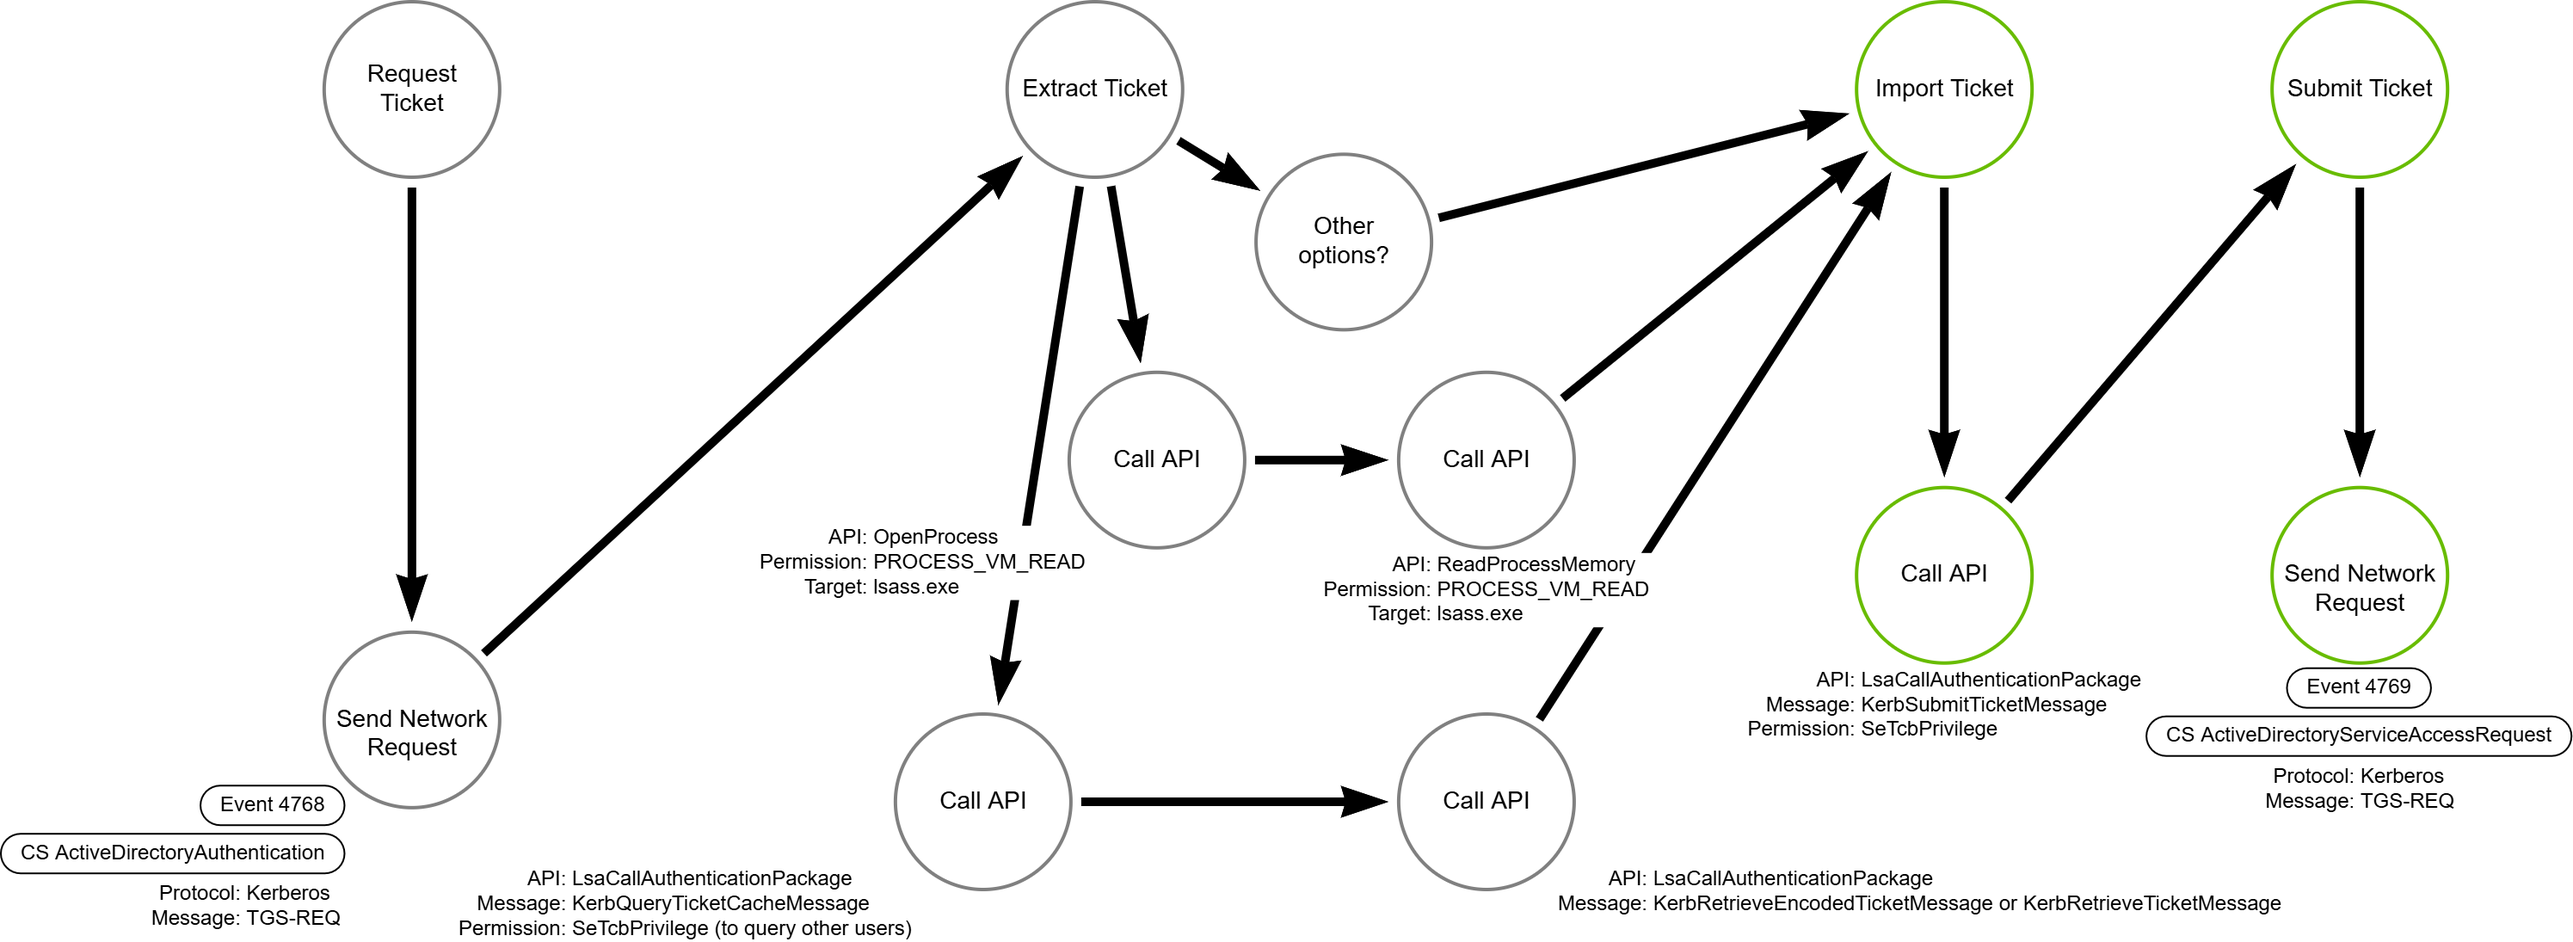
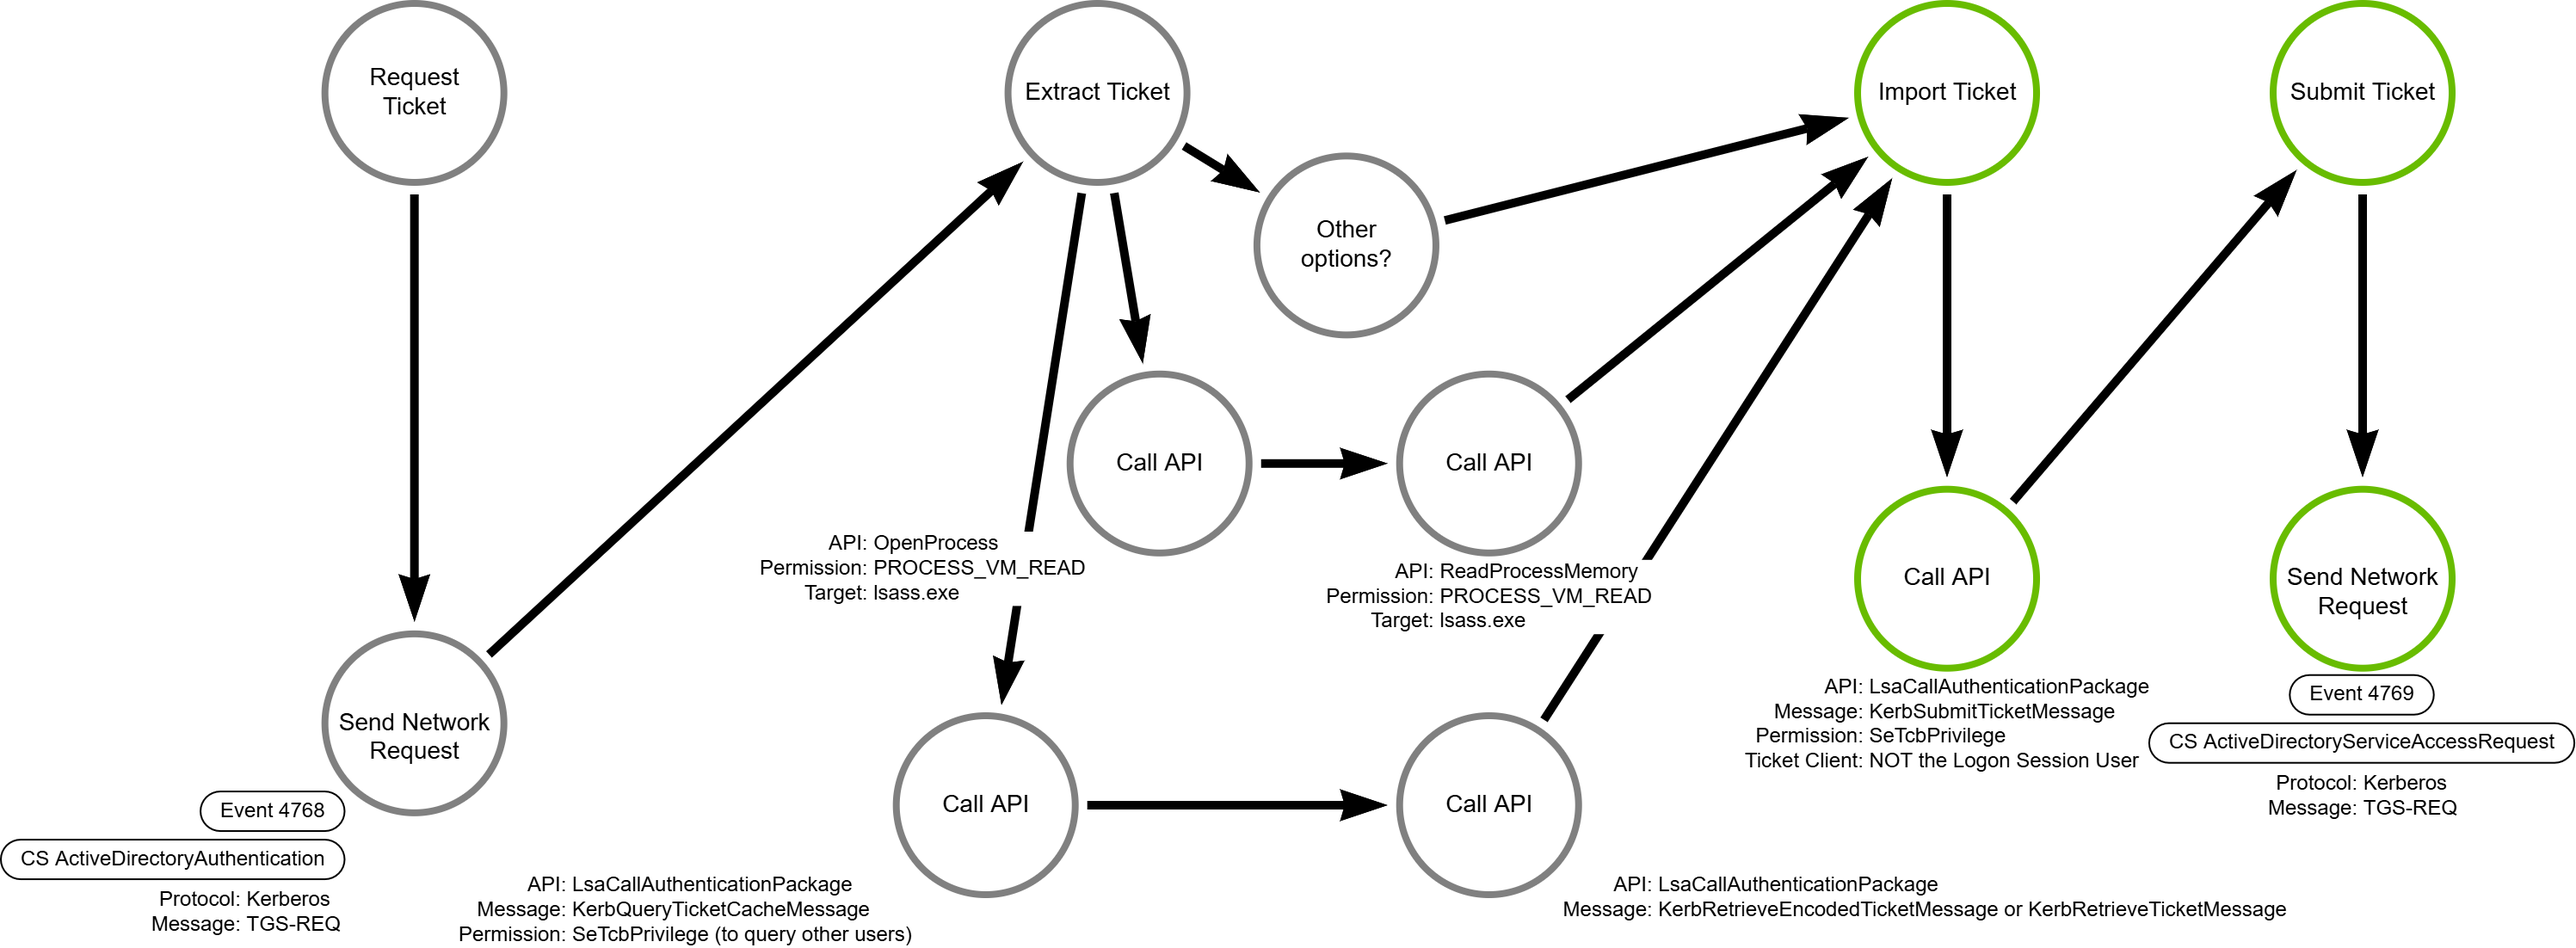
Updating with details about user mismatch

diff --git a/reports/trr0000/win/README.md b/reports/trr0000/win/README.md
@@ -178,7 +178,12 @@ any logon session.
 Once a ticket has been stolen, it can be injected into any logon session using
 the Kerberos SSP/AP `KerbSubmitTicketMessage` message. This submits the ticket
 to be included in the current logon session's ticket cache, where it will be
-used whenever access is requested.
+used whenever access is requested. One important detail to note here: it is
+pointless for an attacker to inject a ticket for a user into a logon session for
+that same user, because it's a simple matter to request a new valid ticket for
+the logged on user. **Thus, maliciously injected tickets will always have a
+mismatch between the client the ticket was issued for and the logon session user
+account.**
 
 #### Detection Data Model
 
